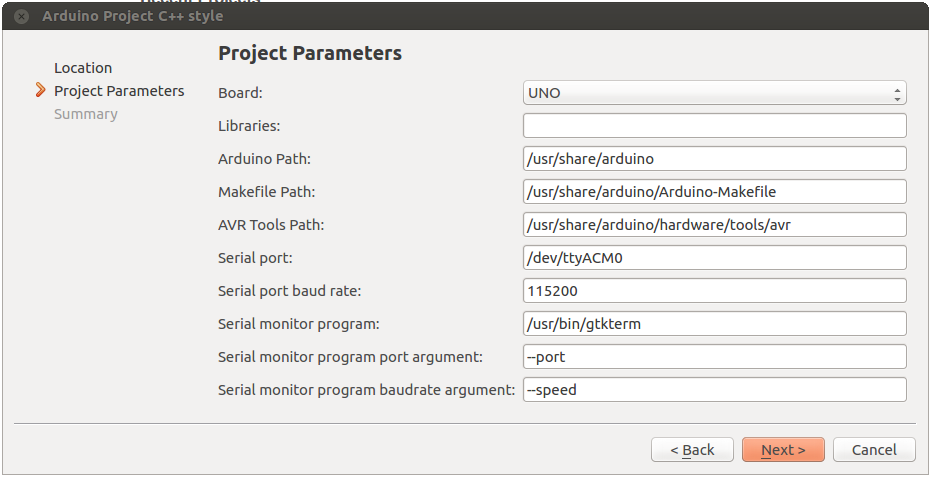
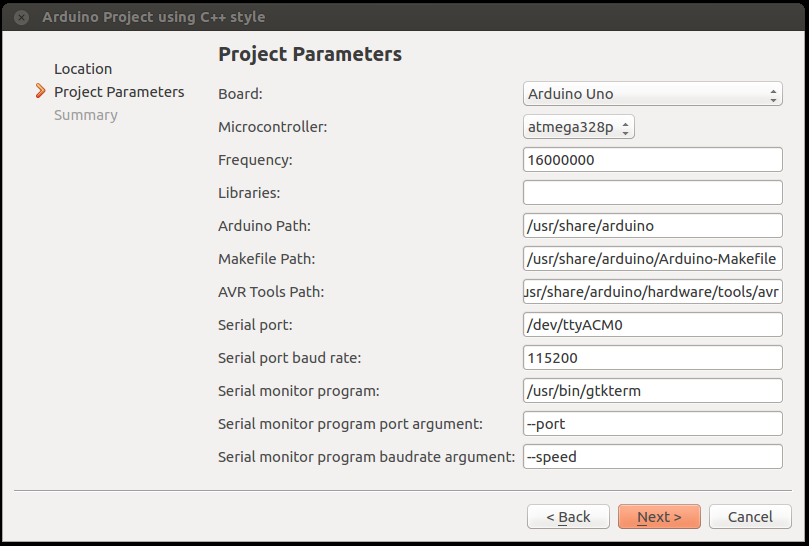
Added option to select Microcontroller and Frequency, avoid a lot of problems on compilation

Changed region(s): [[0.0, 0.0, 1.0, 1.0]]

diff --git a/arduino_cpp_style/main.cpp b/arduino_cpp_style/main.cpp
@@ -1,6 +1,8 @@
 /*
-Project:    %ProjectName%
-Board:      %BOARD_TAG%
+Project:	%ProjectName%
+Board:		%BOARD_TAG%
+MCU:		%BOARD_MCU%	
+FRENQUENCY:	%BOARD_F%
 
 Created using QtCreator
 */

diff --git a/arduino_sketch_style/main.cpp b/arduino_sketch_style/main.cpp
@@ -1,6 +1,8 @@
 /*
-Project:    %ProjectName%
-Board:      %BOARD_TAG%
+Project:	%ProjectName%
+Board:		%BOARD_TAG%
+MCU:		%BOARD_MCU%	
+FRENQUENCY:	%BOARD_F%
 
 Created using QtCreator
 */
